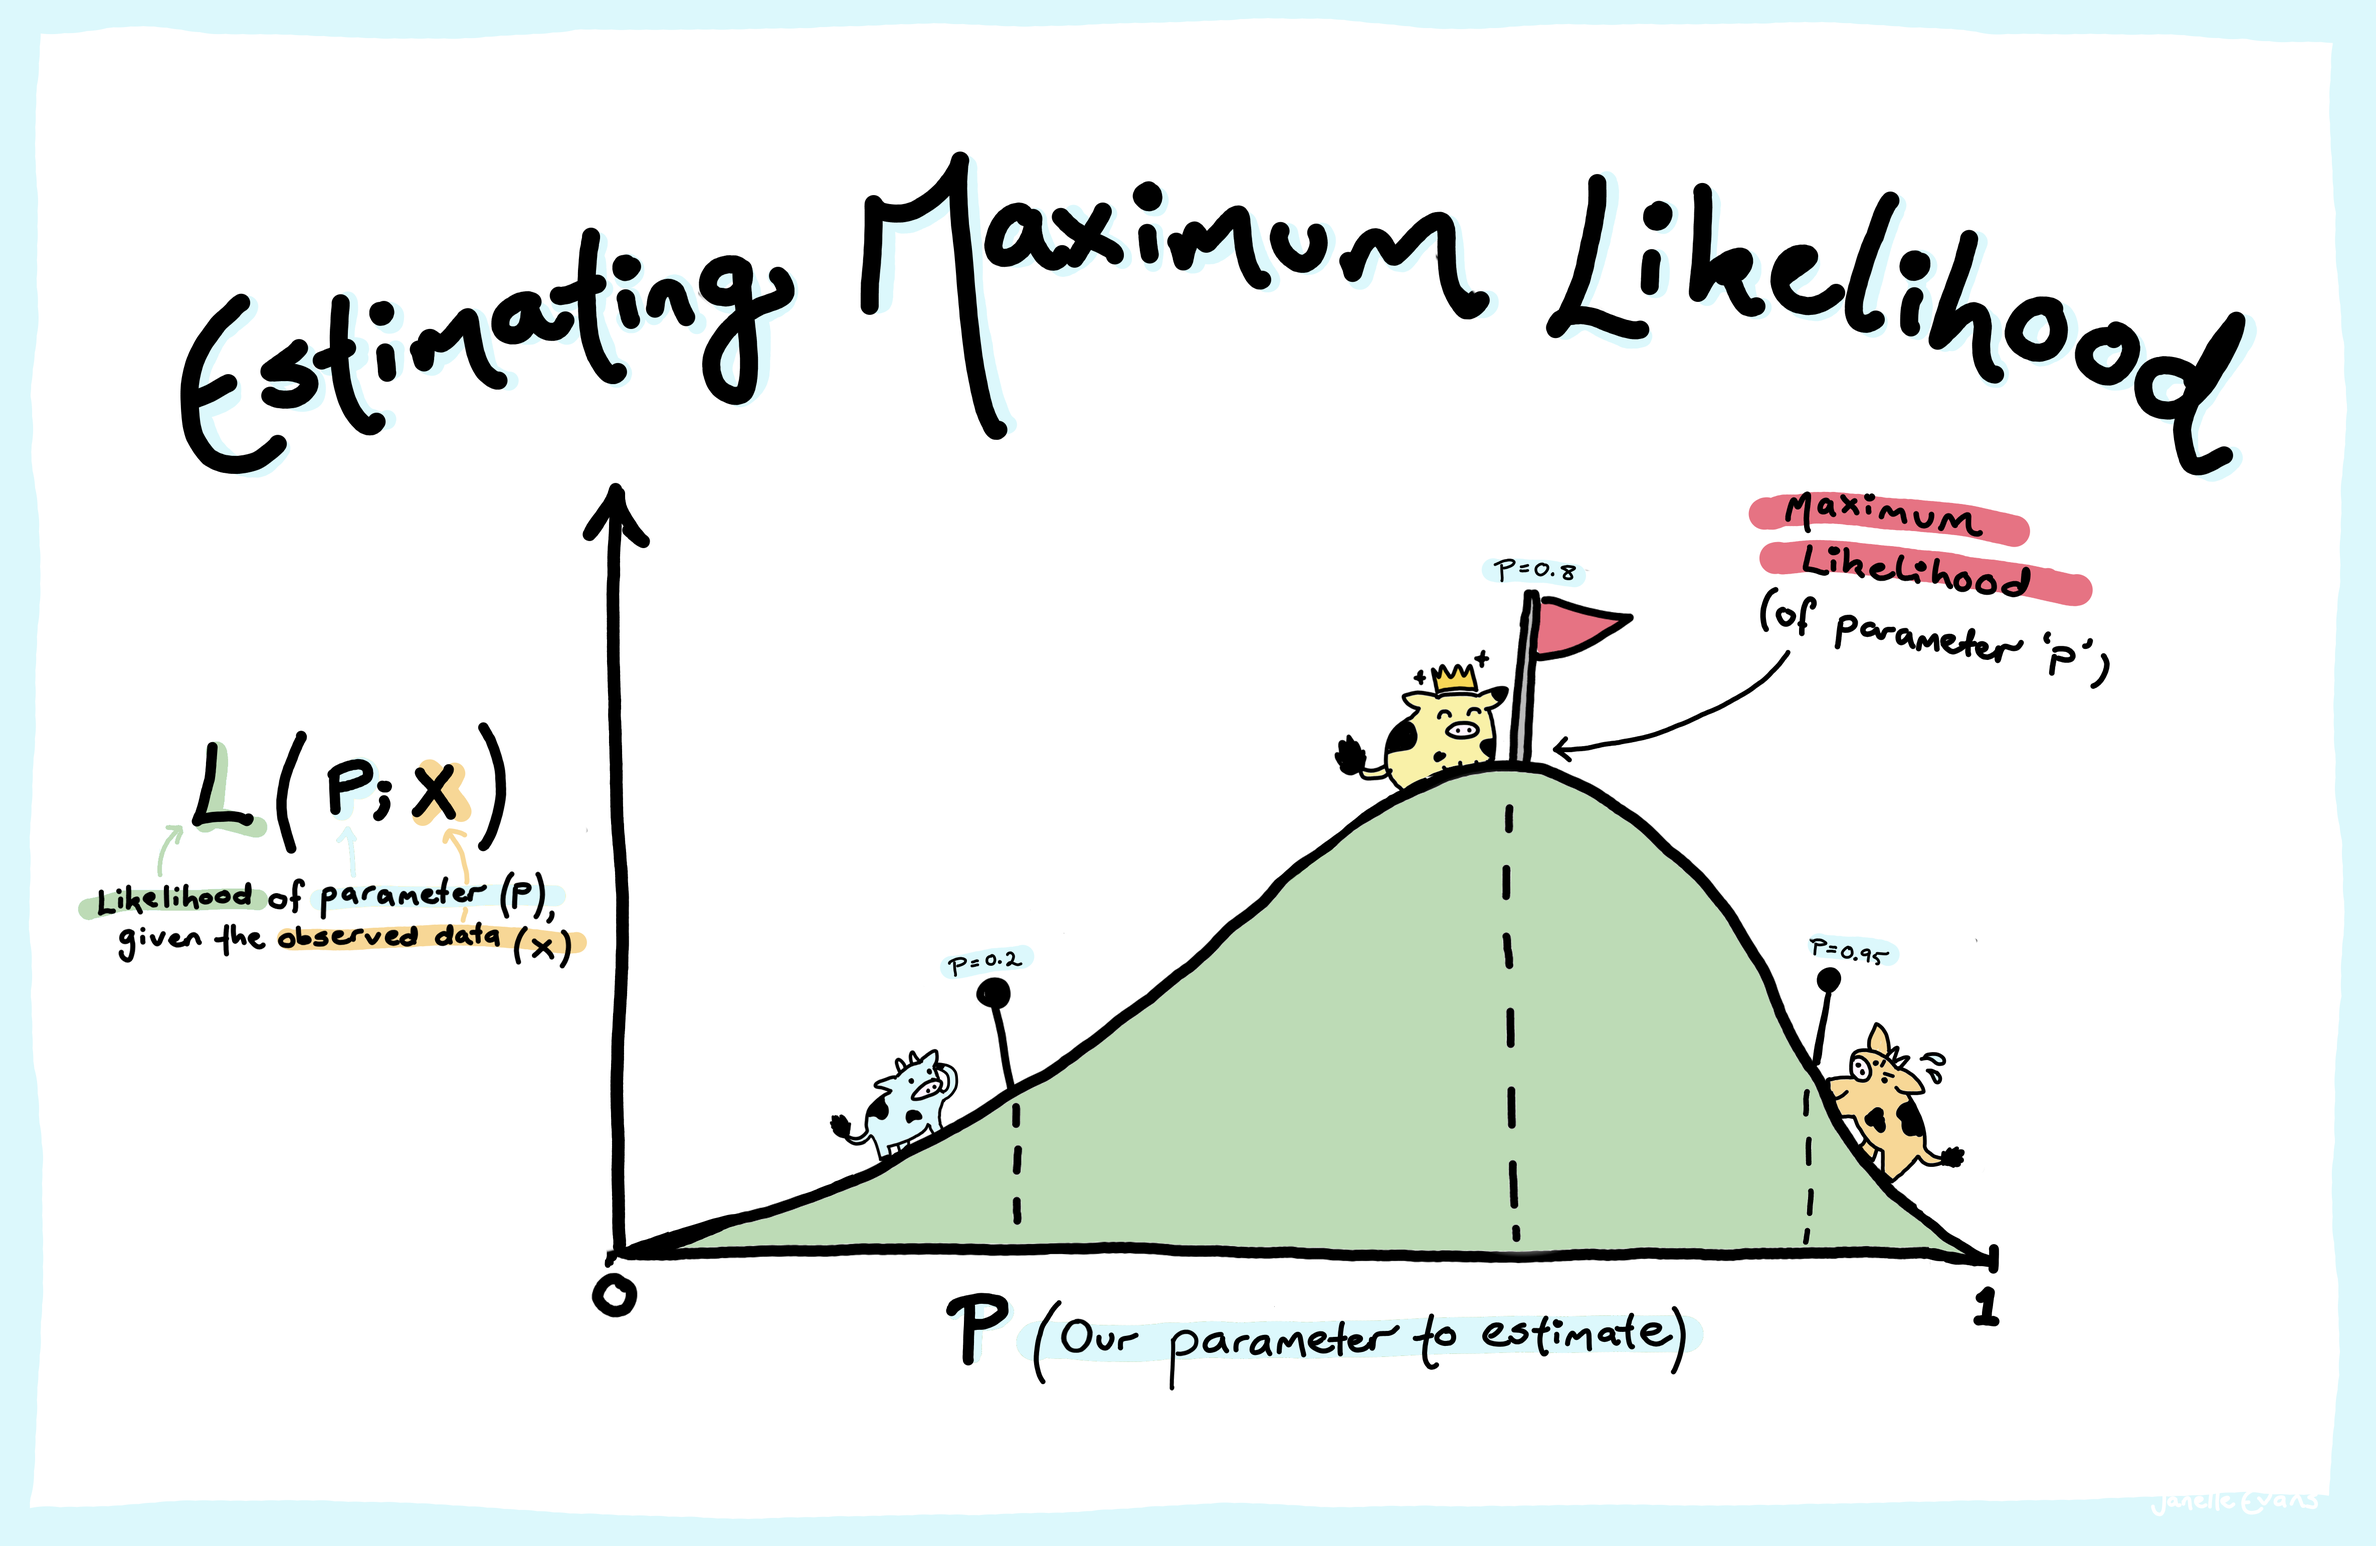
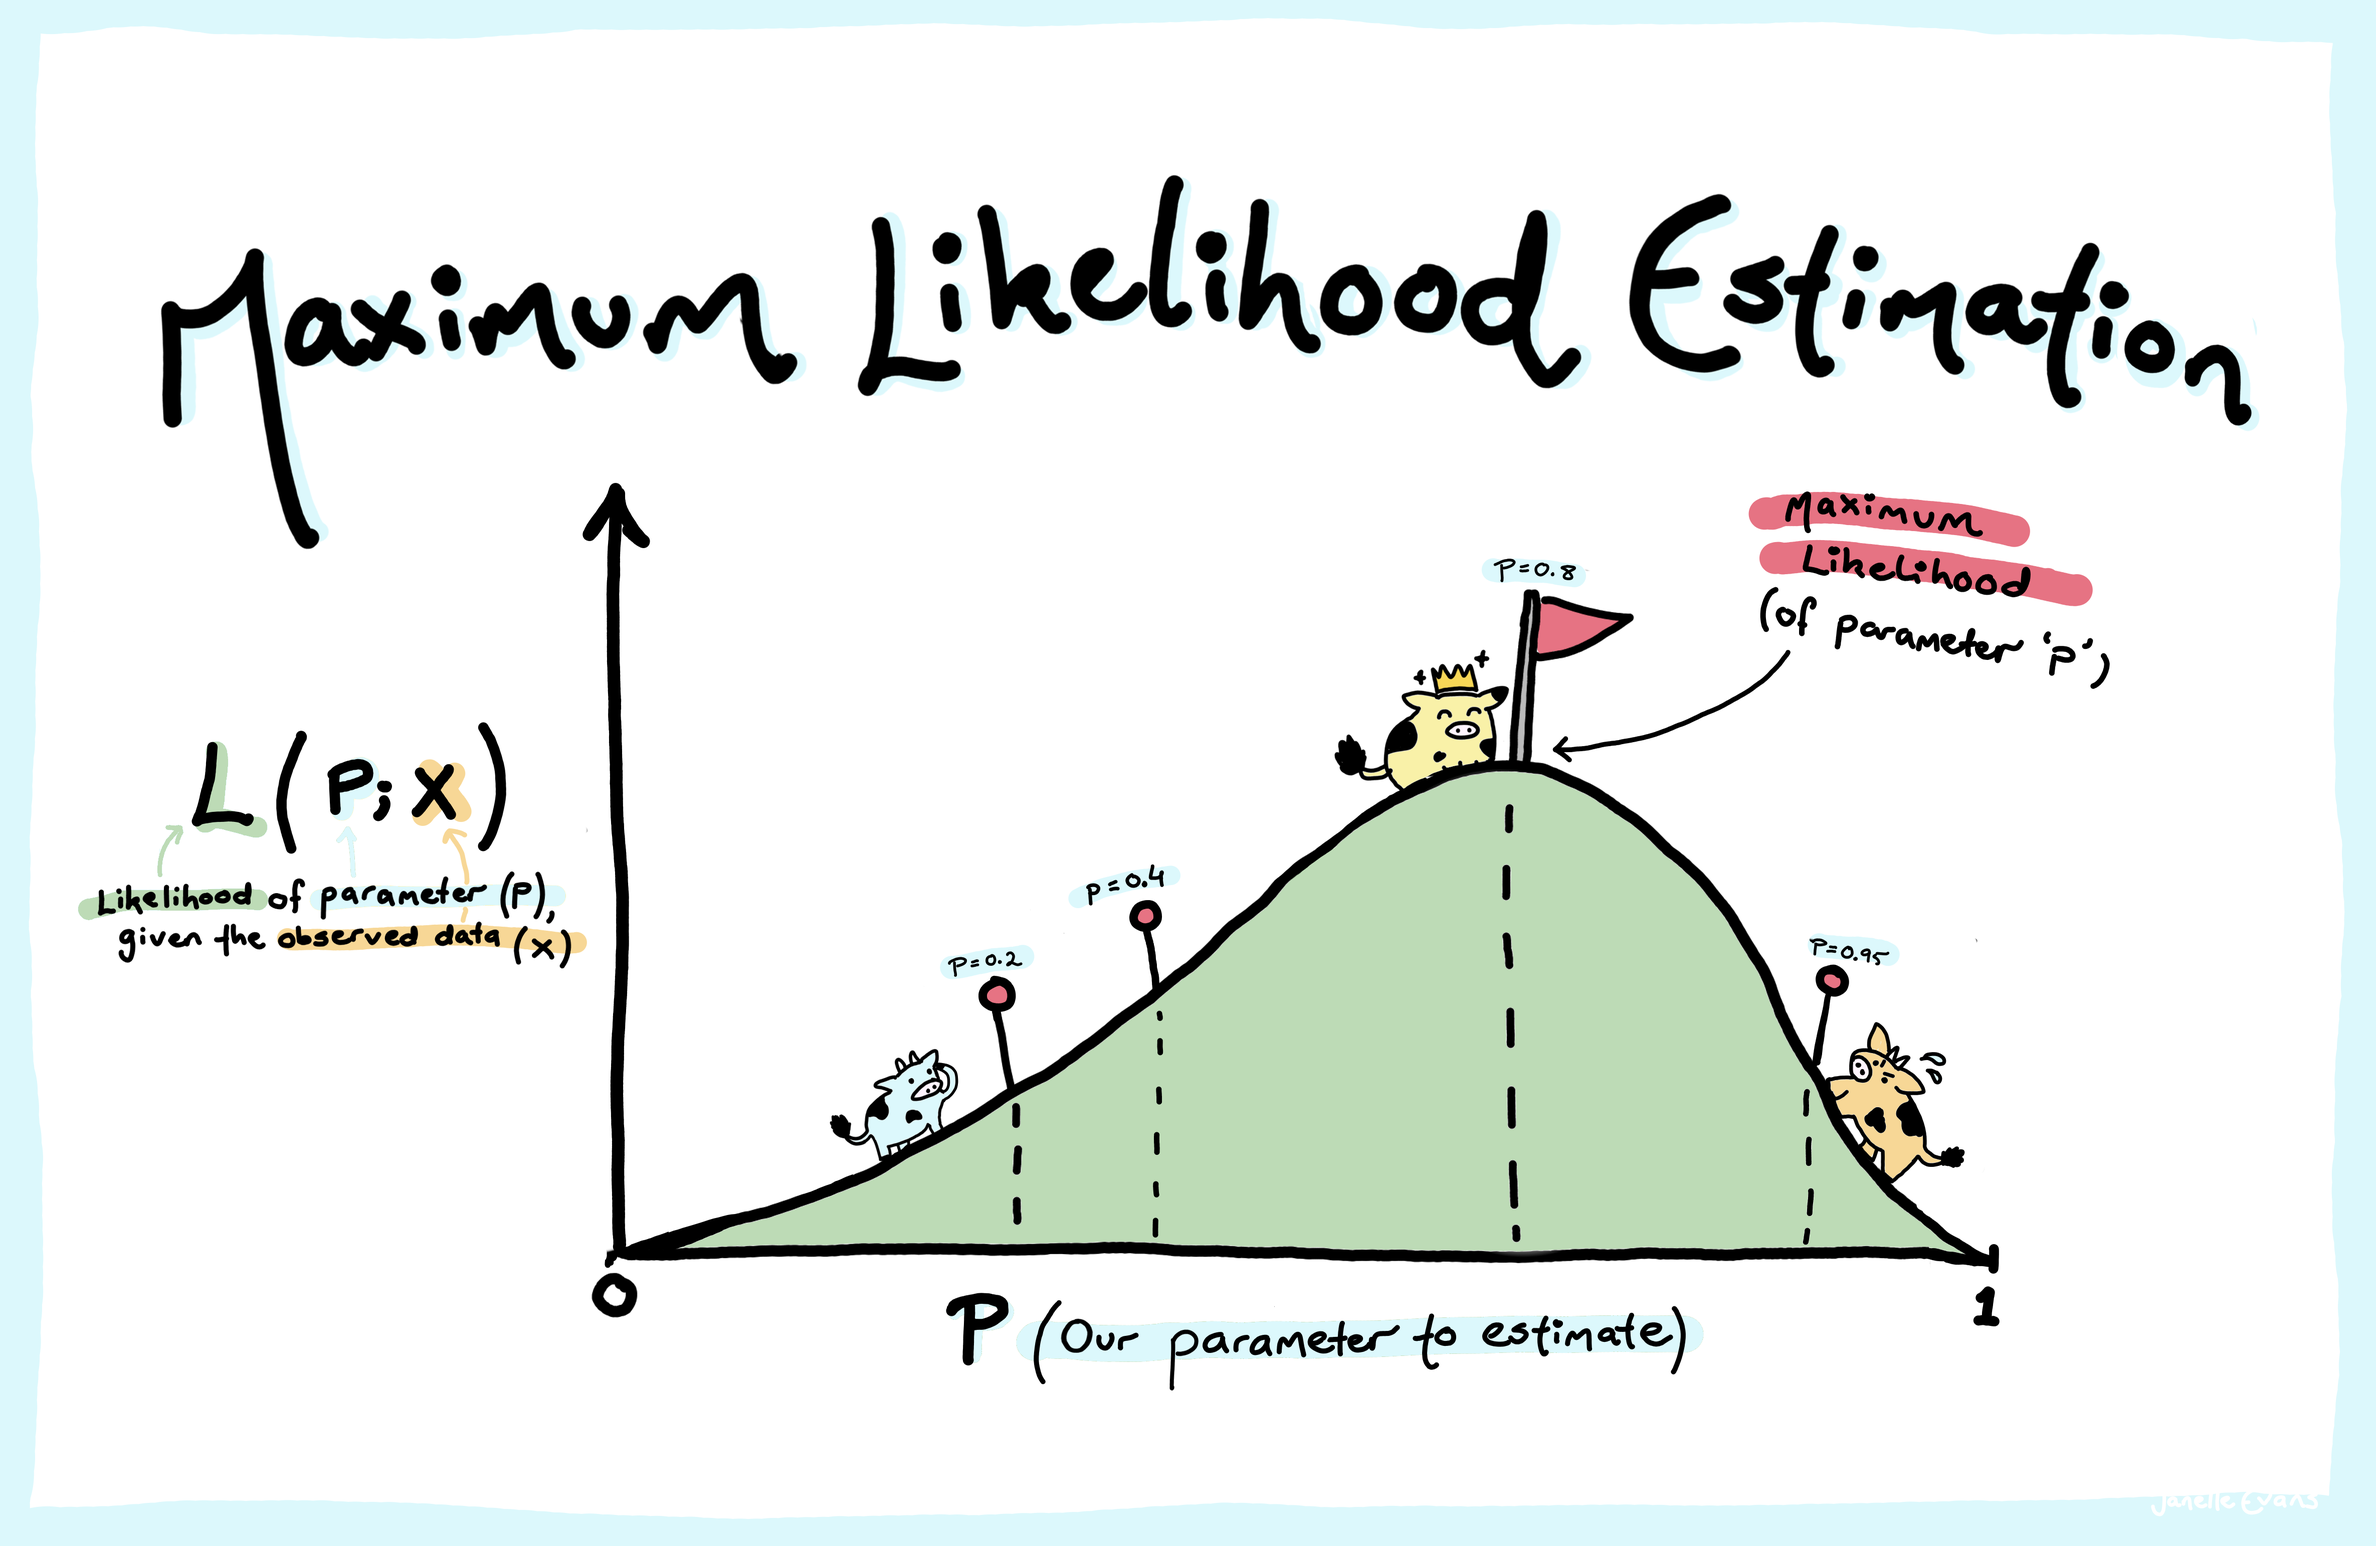
mle plots

diff --git a/index.html b/index.html
@@ -7,7 +7,7 @@
 <link href="index_files/libs/quarto-html/tippy.css" rel="stylesheet">
 <link href="index_files/libs/quarto-html/quarto-html.min.css" rel="stylesheet" data-mode="light">
 <link href="index_files/libs/quarto-html/quarto-syntax-highlighting.css" rel="stylesheet" id="quarto-text-highlighting-styles"><meta charset="utf-8">
-  <meta name="generator" content="quarto-1.2.262">
+  <meta name="generator" content="quarto-1.2.269">
 
   <title>index</title>
   <meta name="apple-mobile-web-app-capable" content="yes">
@@ -340,6 +340,9 @@
 <h2></h2>
 </section>
 <section id="section-5" class="slide level2" data-background-image="https://raw.githubusercontent.com/BIOSCI738/cowstats/main/img/mle_p.png" data-background-size="contain">
+<h2></h2>
+</section>
+<section id="section-6" class="slide level2" data-background-image="https://raw.githubusercontent.com/BIOSCI738/cowstats/main/img/mle_mu_sigma.png" data-background-size="contain">
 <h2></h2>
 <div class="footer footer-default">
 

diff --git a/README.md b/README.md
@@ -8,4 +8,6 @@
    + [Randomisation](https://raw.githubusercontent.com/BIOSCI738/cowstats/main/img/randomisation.png)
    + [Bootstrapping](https://raw.githubusercontent.com/BIOSCI738/cowstats/main/img/bootstrapping.png)
    + [Statistical distributions](https://raw.githubusercontent.com/BIOSCI738/cowstats/main/img/distributions.png)
-   + [Binomial maximum likelihood](https://raw.githubusercontent.com/BIOSCI738/cowstats/main/img/mle_p.png)
+   + [Binomial MLE](https://raw.githubusercontent.com/BIOSCI738/cowstats/main/img/mle_p.png)
+   + [Gaussian MLE](https://raw.githubusercontent.com/BIOSCI738/cowstats/main/img/mle_mu_sigma.png)
+
